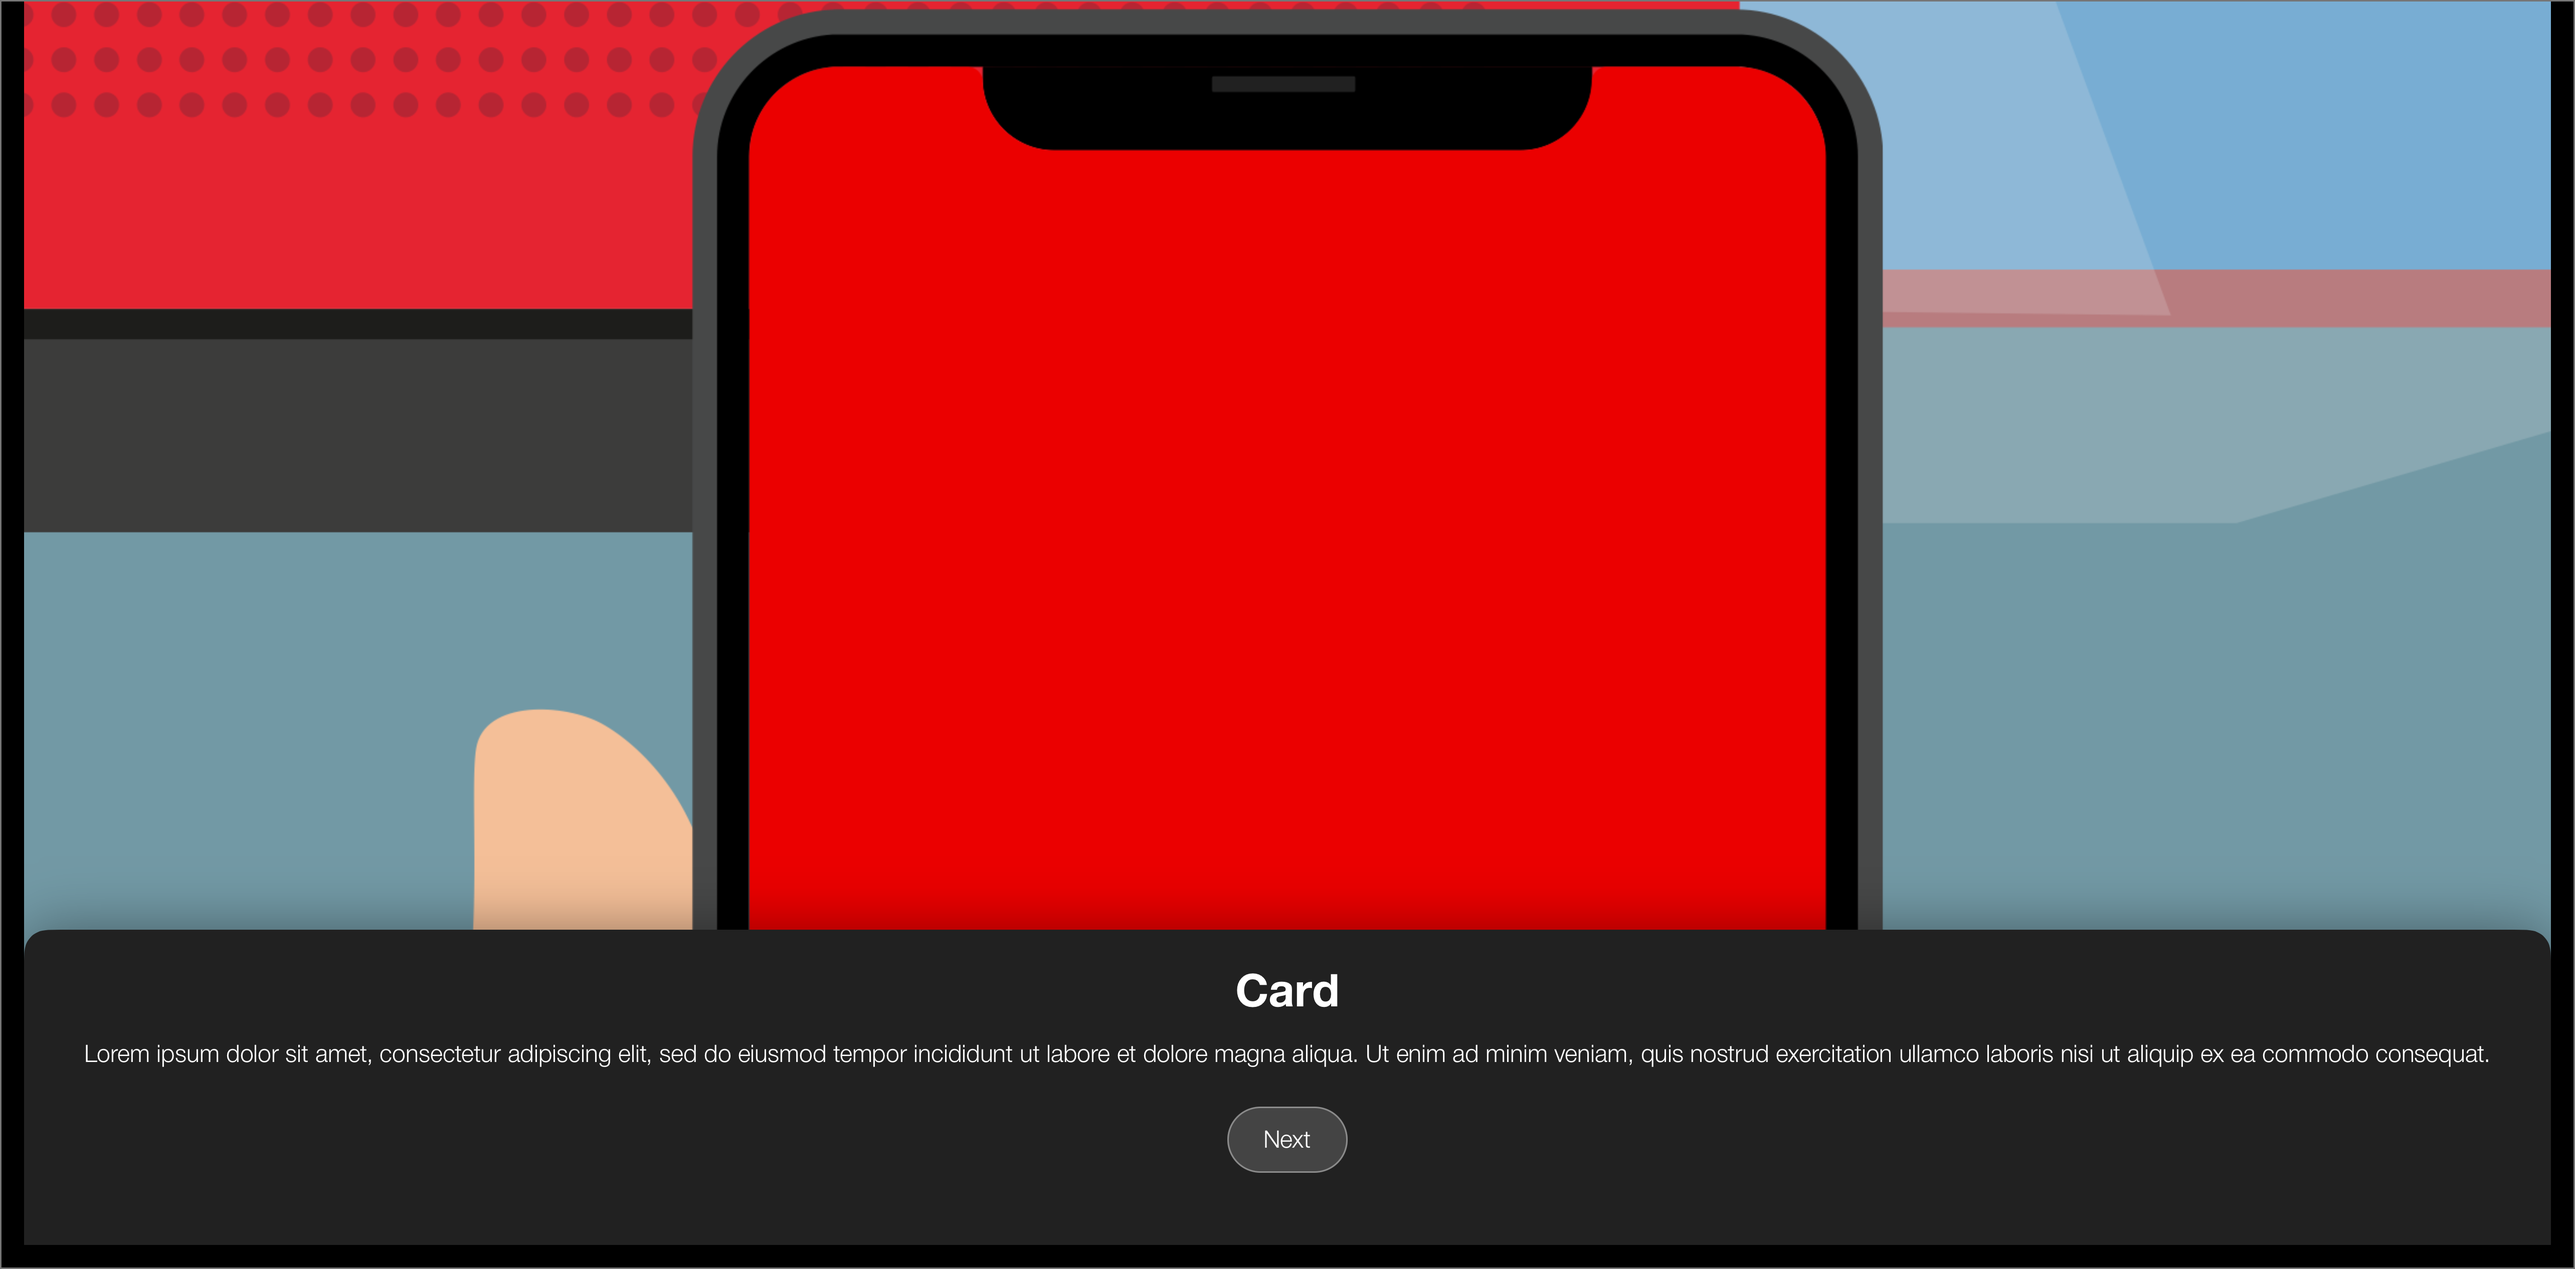
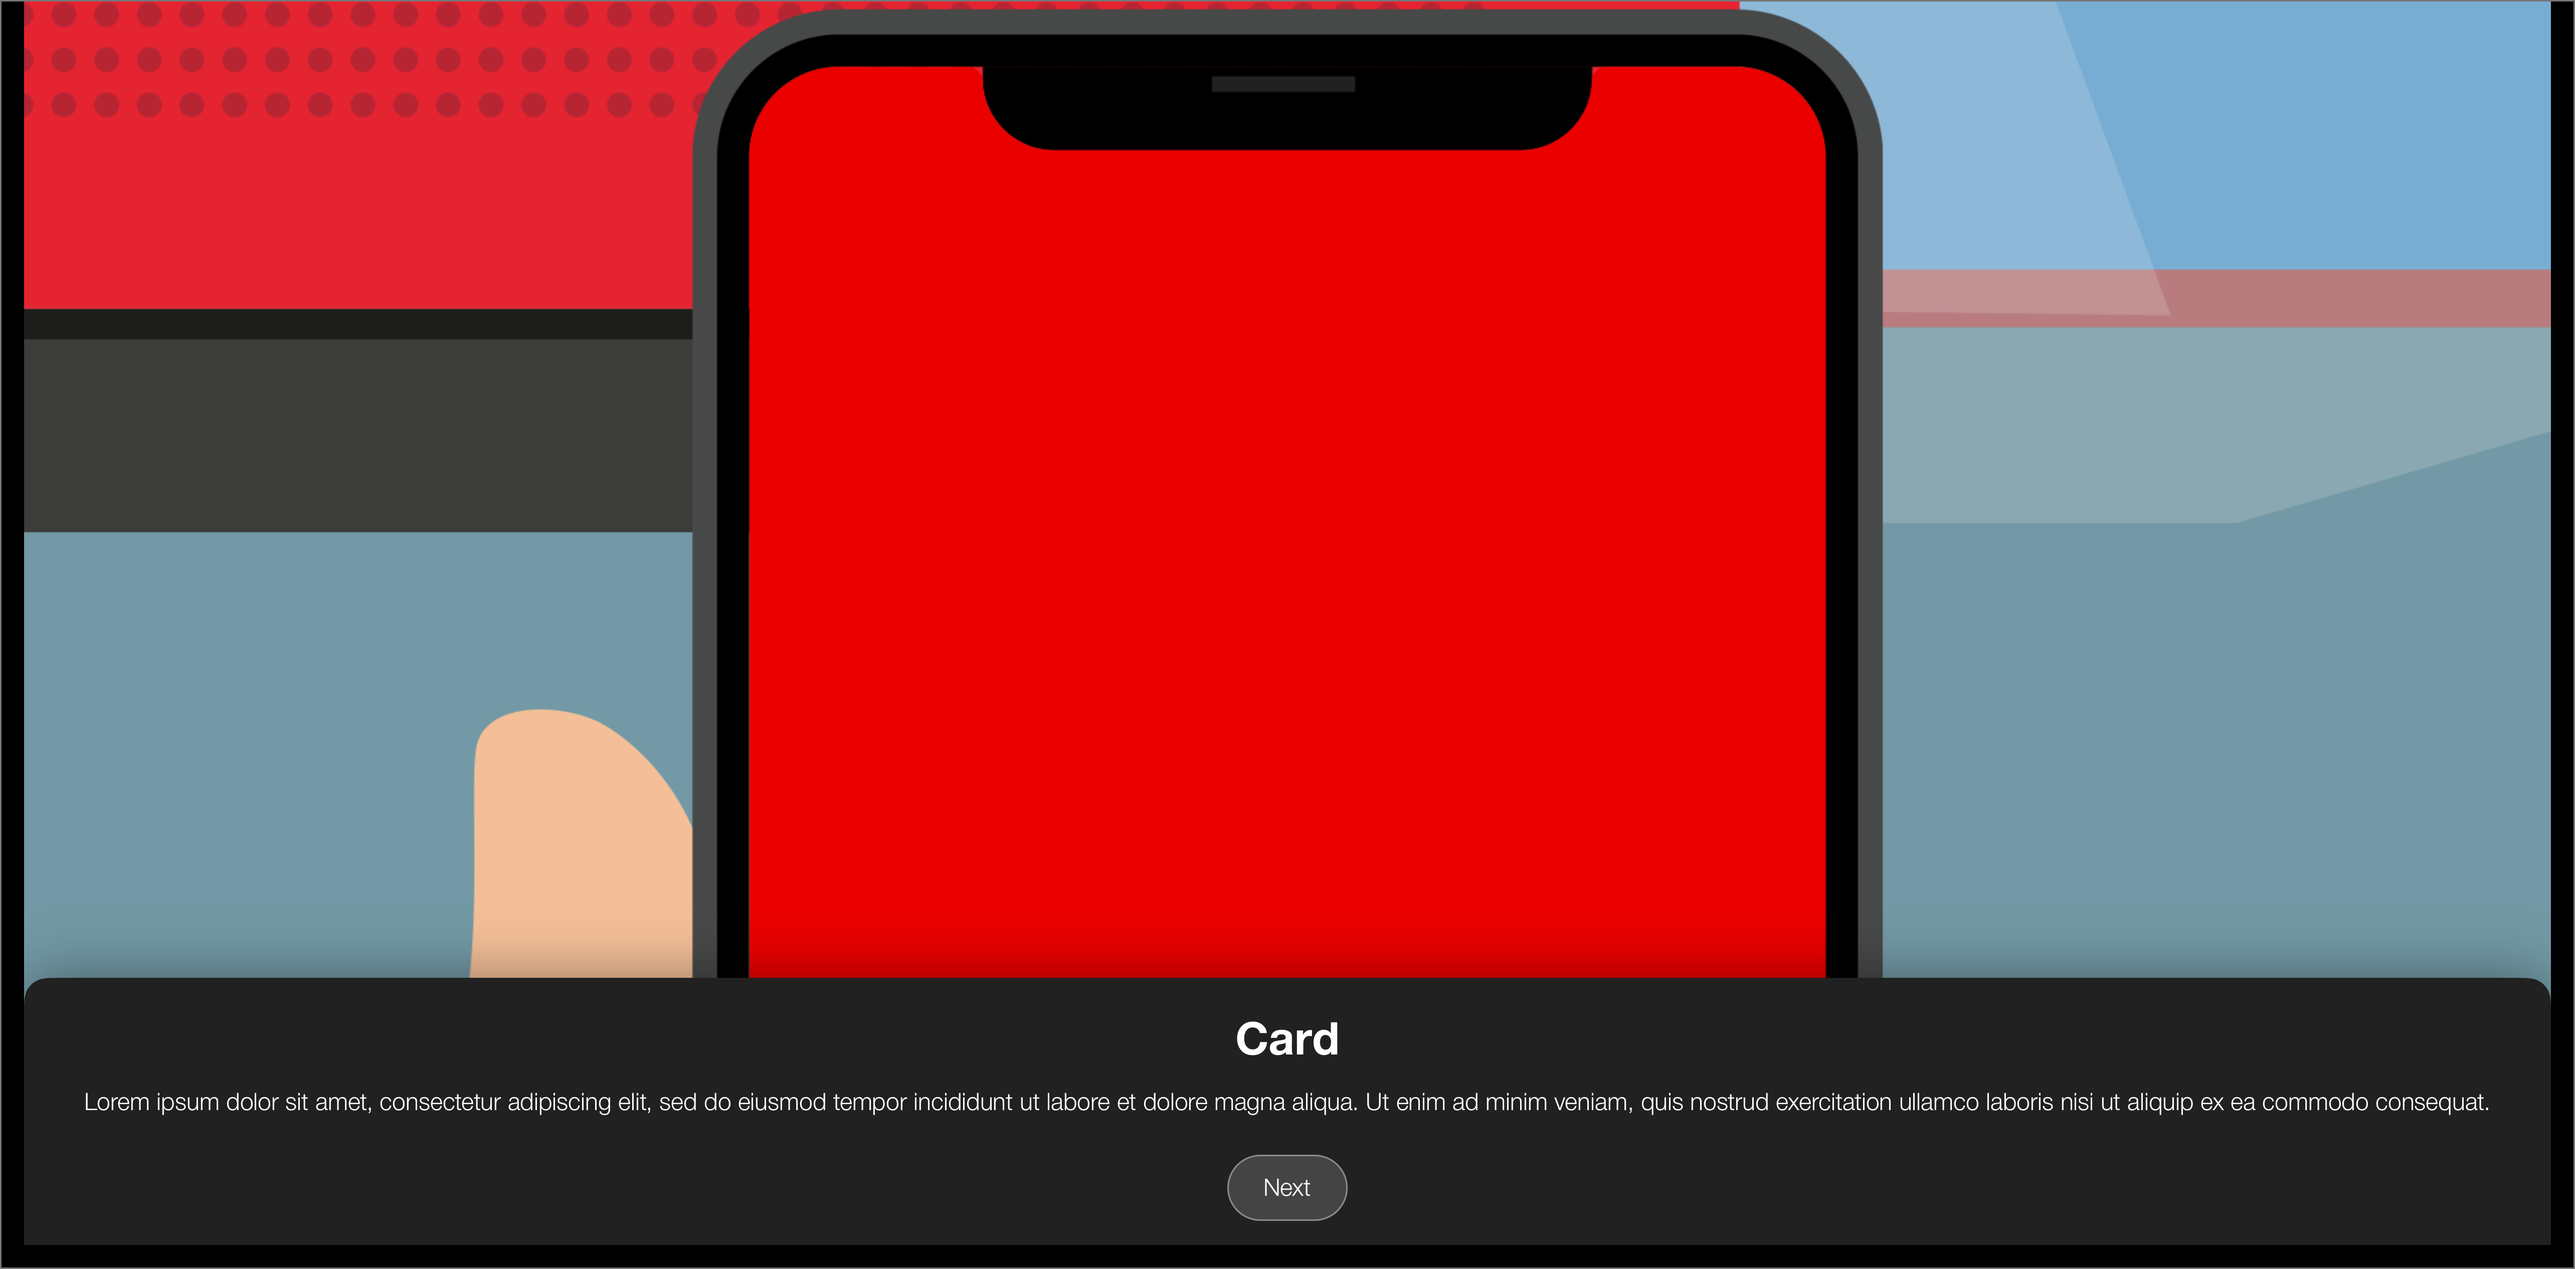
fix: onboarding for old and new iphone - with/without safe area

Changed region(s): [[0.0, 0.7176, 0.9969, 0.9672]]

diff --git a/SBBDesignSystemMobileSwiftUI/Views/SBBOnboardingWrapper/SBBCardView.swift b/SBBDesignSystemMobileSwiftUI/Views/SBBOnboardingWrapper/SBBCardView.swift
@@ -54,14 +54,20 @@ public struct SBBCardView<Card: Equatable>: View {
         self.scrollViewHeight = size?.width != nil ? size!.height - 54 - 16 : nil
     }
     
+    @ViewBuilder
     private var imageView: some View {
-        GeometryReader { geometry in
-            image
-                .resizable()
-                .aspectRatio(contentMode: .fill)
-                .frame(width: geometry.size.width, height: geometry.size.height, alignment: .center)
-                .clipped()
-                .accessibility(hidden: true)
+        if !sizeCategory.isAccessibilityCategory {
+            GeometryReader { geometry in
+                image
+                    .resizable()
+                    .aspectRatio(contentMode: .fill)
+                    .frame(width: geometry.size.width, height: geometry.size.height, alignment: .center)
+                    .clipped()
+                    .accessibility(hidden: true)
+            }
+        } else {
+            Rectangle()
+                .foregroundColor(Color.sbbColor(.background))
         }
     }
     
@@ -110,11 +116,13 @@ public struct SBBCardView<Card: Equatable>: View {
         if sizeCategory.isAccessibilityCategory {
             ScrollView(showsIndicators: false) {
                 contentView
+                    .padding(.top, 24)
                     .padding(.bottom, 32 + (sizeCategory.isAccessibilityCategory ? 108 : 54))
             }
             .frame(height: scrollViewHeight)
         } else {
             contentView
+                .padding(.top, 24)
                 .padding(.bottom, 32 + (sizeCategory.isAccessibilityCategory ? 108 : 54))
         }
     }
@@ -122,9 +130,7 @@ public struct SBBCardView<Card: Equatable>: View {
     private var portraitView: some View {
         ZStack(alignment: .bottom) {
             VStack {
-                if !sizeCategory.isAccessibilityCategory {
-                    imageView
-                }
+                imageView
                 Spacer()
             }
             
@@ -153,12 +159,12 @@ public struct SBBCardView<Card: Equatable>: View {
                 Spacer()
             }
             .padding(.horizontal, 32)
-            .padding(.bottom, 32)
-            .padding(.top, 24)
+            .edgesIgnoringSafeArea(.vertical)
             .foregroundColor(.sbbColor(.textBlack))
             .background(Color.sbbColor(.viewBackground))
             .cornerRadius(16, corners: [.topLeft, .topRight])
             .shadow(color: Color.sbbColor(.tabshadow), radius: 20, x: 0, y: 0)
+            .mask(Rectangle().padding(.top, -50))
         }
     }
     
@@ -167,12 +173,15 @@ public struct SBBCardView<Card: Equatable>: View {
         if sizeCategory.isAccessibilityCategory {
             ScrollView(showsIndicators: false) {
                 contentView
+                    .padding(.top, 24)
                     .padding(.bottom, 32)
             }
             .frame(height: scrollViewHeight)
             .padding(.horizontal, 32)
         } else {
             contentView
+                .padding(.top, 24)
+                .padding(.bottom, 32)
                 .padding(.horizontal, 32)
         }
     }
@@ -189,25 +198,26 @@ public struct SBBCardView<Card: Equatable>: View {
             HStack(spacing: 0) {
                 Spacer()
                 
-                dynamicLandscapeContentView
-                
-                VStack(spacing: 16) {
-                    if canBeTried {
-                        tryButton
+                HStack(spacing: 0) {
+                    dynamicLandscapeContentView
+                        .frame(width: contentWidthLandscape)
+                    
+                    VStack(spacing: 16) {
+                        if canBeTried {
+                            tryButton
+                        }
+                        nextButton
                     }
-                    nextButton
+                    .padding(.horizontal, 26)
                 }
-                .padding(.leading, 16)
-                .padding(.trailing, 32)
-                .frame(width: buttonWidthLandscape)
                 Spacer()
             }
-            .padding(.bottom, 32)
-            .padding(.top, 24)
             .foregroundColor(.sbbColor(.textBlack))
             .background(Color.sbbColor(.viewBackground))
             .cornerRadius(16, corners: [.topLeft, .topRight])
             .shadow(color: Color.sbbColor(.tabshadow), radius: 20, x: 0, y: 0)
+            .mask(Rectangle().padding(.top, -50))
+            .edgesIgnoringSafeArea(.vertical)
         }
     }
     
@@ -215,11 +225,13 @@ public struct SBBCardView<Card: Equatable>: View {
         Group {
             if self.horizontalSizeClass == .compact && self.verticalSizeClass == .regular {
                 portraitView
+                    .edgesIgnoringSafeArea([.top, .horizontal])
             } else {
                 landscapeView
+                    .edgesIgnoringSafeArea(.all)
             }
         }
-        .edgesIgnoringSafeArea(.all)
+        
         .background(Color.sbbColor(.viewBackground).edgesIgnoringSafeArea(.all))
     }
 }

diff --git a/SBBDesignSystemMobileSwiftUIDemo/Views/DetailViews/OnboardingViewDemo.swift b/SBBDesignSystemMobileSwiftUIDemo/Views/DetailViews/OnboardingViewDemo.swift
@@ -109,9 +109,13 @@ struct OnboardingViewDemo: View {
                     })
                 }, cardBuilder: { card in
                     if card % 2 == 1 {
-                        createCardView(card, viewModel.withCustomCard, viewModel.withCustomAction, viewModel.withCustomButton)
+                        GeometryReader { geometry in
+                            createCardView(card, viewModel.withCustomCard, viewModel.withCustomAction, viewModel.withCustomButton, geometry.size)
+                        }
                     } else {
-                        createCardView(card, viewModel.withCustomCard, viewModel.withCustomAction, viewModel.withCustomButton)
+                        GeometryReader { geometry in
+                        createCardView(card, viewModel.withCustomCard, viewModel.withCustomAction, viewModel.withCustomButton, geometry.size)
+                        }
                     }
                 })
                 .sheet(isPresented: $showTrySheet, content: {
@@ -171,7 +175,7 @@ struct OnboardingViewDemo: View {
     }
     
     @ViewBuilder
-    private func createCardView(_ card: Int, _ customCard: Bool, _ customAction: Bool, _ customButton: Bool) -> some View {
+    private func createCardView(_ card: Int, _ customCard: Bool, _ customAction: Bool, _ customButton: Bool, _ geometrySize: CGSize) -> some View {
         if card == 0, customCard {
             VStack {
                 Spacer()
@@ -207,7 +211,7 @@ struct OnboardingViewDemo: View {
                 }
             }
         } else if customButton {
-            SBBCardView(image: Image("Onboarding_Card2"), title: Text("Card"), text: Text("Lorem ipsum dolor sit amet, consectetur adipiscing elit, sed do eiusmod tempor incididunt ut labore et dolore magna aliqua."), showTrySheet: $showTrySheet, nextCard: card+1, onNext: { card in
+            SBBCardView(image: Image("Onboarding_Card2"), title: Text("Card"), text: Text("Lorem ipsum dolor sit amet, consectetur adipiscing elit, sed do eiusmod tempor incididunt ut labore et dolore magna aliqua."), size: geometrySize, showTrySheet: $showTrySheet, nextCard: card+1, onNext: { card in
                 currentOnboardingCardIndex += 1
                 if card == viewModel.numberOfCards {
                     overviewState = .end
@@ -219,7 +223,7 @@ struct OnboardingViewDemo: View {
                 }
             }
         } else {
-            SBBCardView(image: Image("Onboarding_Card2"), title: Text("Card"), text: Text("Lorem ipsum dolor sit amet, consectetur adipiscing elit, sed do eiusmod tempor incididunt ut labore et dolore magna aliqua."), nextCard: card+1, onNext: { card in
+            SBBCardView(image: Image("Onboarding_Card2"), title: Text("Card"), text: Text("Lorem ipsum dolor sit amet, consectetur adipiscing elit, sed do eiusmod tempor incididunt ut labore et dolore magna aliqua."), size: geometrySize, nextCard: card+1, onNext: { card in
                 currentOnboardingCardIndex += 1
                 if card == viewModel.numberOfCards {
                     overviewState = .end

diff --git a/SBBDesignSystemMobileSwiftUI/Views/SBBOnboardingWrapper/SBBOnboardingWrapper.swift b/SBBDesignSystemMobileSwiftUI/Views/SBBOnboardingWrapper/SBBOnboardingWrapper.swift
@@ -93,11 +93,10 @@ public struct SBBOnboardingWrapper<Card: Equatable, CardView: View, StartView: V
                 SBBPaginationView(currentPageIndex: $currentCardIndex, numberOfPages: nbCards, selectedDoubleSize: true)
             }
             .padding(.horizontal, 16)
-            .padding(.vertical, 8
-            )
+            .padding(.vertical, 8)
             .background(Color.sbbColor(.viewBackground))
             .cornerRadius(16)
-            
+            .padding(.vertical, 8)
             Spacer()
         }
     }
